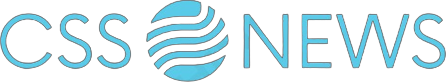
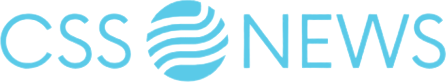
Atualizações recentes

diff --git a/index.html b/index.html
@@ -4,11 +4,12 @@
     <meta charset="UTF-8">
     <meta name="viewport" content="width=device-width, initial-scale=1.0">
     <title>CSS News</title>
-    <link rel="stylesheet" href="style.css">
+    <link rel="stylesheet" href="css/style.css">
+    <link rel="stylesheet" href="https://fonts.googleapis.com/css2?family=Material+Symbols+Outlined:opsz,wght,FILL,GRAD@48,400,0,0" />
 </head>
 <body>
     <nav>
-        <a class="logo" href=""><img width="400" src="aaa-removebg-preview.png" alt=""></a>
+        <a class="logo" href=""><img width="400" src="img/aaa-removebg-preview.png" alt=""></a>
         <ul>
             <li><a href="">Notícias</a></li>
             <li><a href="">Reportagens</a></li>
@@ -17,7 +18,7 @@
     </nav>
     <header>
         <div class="left-header">
-            <img src="" alt="">
+            <img width="700" src="img/banner-galeria.jpg" alt="">
         </div>
         <div class="right-header">
             <h2>87,9% dos alunos do IFC - Campus Concórdia dizem gostar de seu curso técnico, aponta pesquisa</h1>
@@ -29,13 +30,15 @@
                 <li>Inaê Karine Maziero Marchese</li>
                 <li>Thainá D'Agostini</li>
             </ul>
-            <span>Concórdia - SC</span>
+            <span><span class="material-symbols-outlined">location_on</span>Concórdia - SC</span>
             <span>Postado em 31/07/2023 14:40:24</span>
             <span>Atualizado há 4 horas atrás</span>
         </div>
     </header>
     <main>
         
+        <hr>
+
         <p>Cerca de 87,9% dos alunos e ex-alunos do Instituto Federal Catarinense - Campus Concórdia revelam gostar de seu curso técnico, segundo levantamento realizado pelo CSS News. A pesquisa, realizada através de um formulário distribuído aos alunos, contou com 149 respostas em um período de 15 dias, e ainda expôs os principais motivos que levaram os estudantes a escolher sua área e suas perspectivas futuras.</p>
         <p>O dado representa uma porcentagem relativamente alta em relação ao número de respostas, mostrando a satisfação dos estudantes do campus com a escolha do curso. Por outro lado, apenas 12,1% demonstraram insatisfação nesse quesito, mostrando que a formação atende às expectativas dos alunos e ex-alunos da instituição. Ainda, do total de pesquisados, 14,1% correspondem a ex-alunos, dado importante quando levado em conta experiências passadas na instituição.</p>
         <p>Outro dado importante revelado pela pesquisa diz respeito à continuidade da profissão após a conclusão do curso. Do total de pesquisados, 58,4% pretendem seguir ou seguiram em sua área de formação, buscando cursos superiores e vagas de trabalho direcionadas à mesma.  Esse número representa um dado positivo para a região, visto que a Instituição forma profissionais capacitados para atender a grande demanda de empregos nesses setores. Aliado ao gosto dos estudantes pelo curso, a tendência é que ocorra um aumento de profissionais formados atuantes  em suas áreas no município e na região como um todo.</p>

diff --git a/css/style.css b/css/style.css
@@ -1,7 +1,6 @@
 body {
     margin: 0;
     font-family: 'Segoe UI', Tahoma, Geneva, Verdana, sans-serif;
-    font-size: 1.25em;
 }
 
 nav {
@@ -33,6 +32,33 @@ nav ul li a {
     padding: 1em;
 }
 
+.logo img {
+    filter: drop-shadow(2px 2px 2px rgba(109, 109, 109, 0.5));
+}
+
+header {
+    display: flex;
+    justify-content: center;
+    align-items: center;
+    margin: 0 5em;
+}
+
+header > * {
+    margin: 0 1em;
+    margin-top: 2em;
+}
+
+header .right-header {
+    display: flex;
+    flex-direction: column;
+    margin: 0;
+}
+
+header .right-header ul {
+    list-style-type: none;
+    padding: 0;
+}
+
 main {
-    margin: 0 25em;
+    margin: 0 15em;
 }
